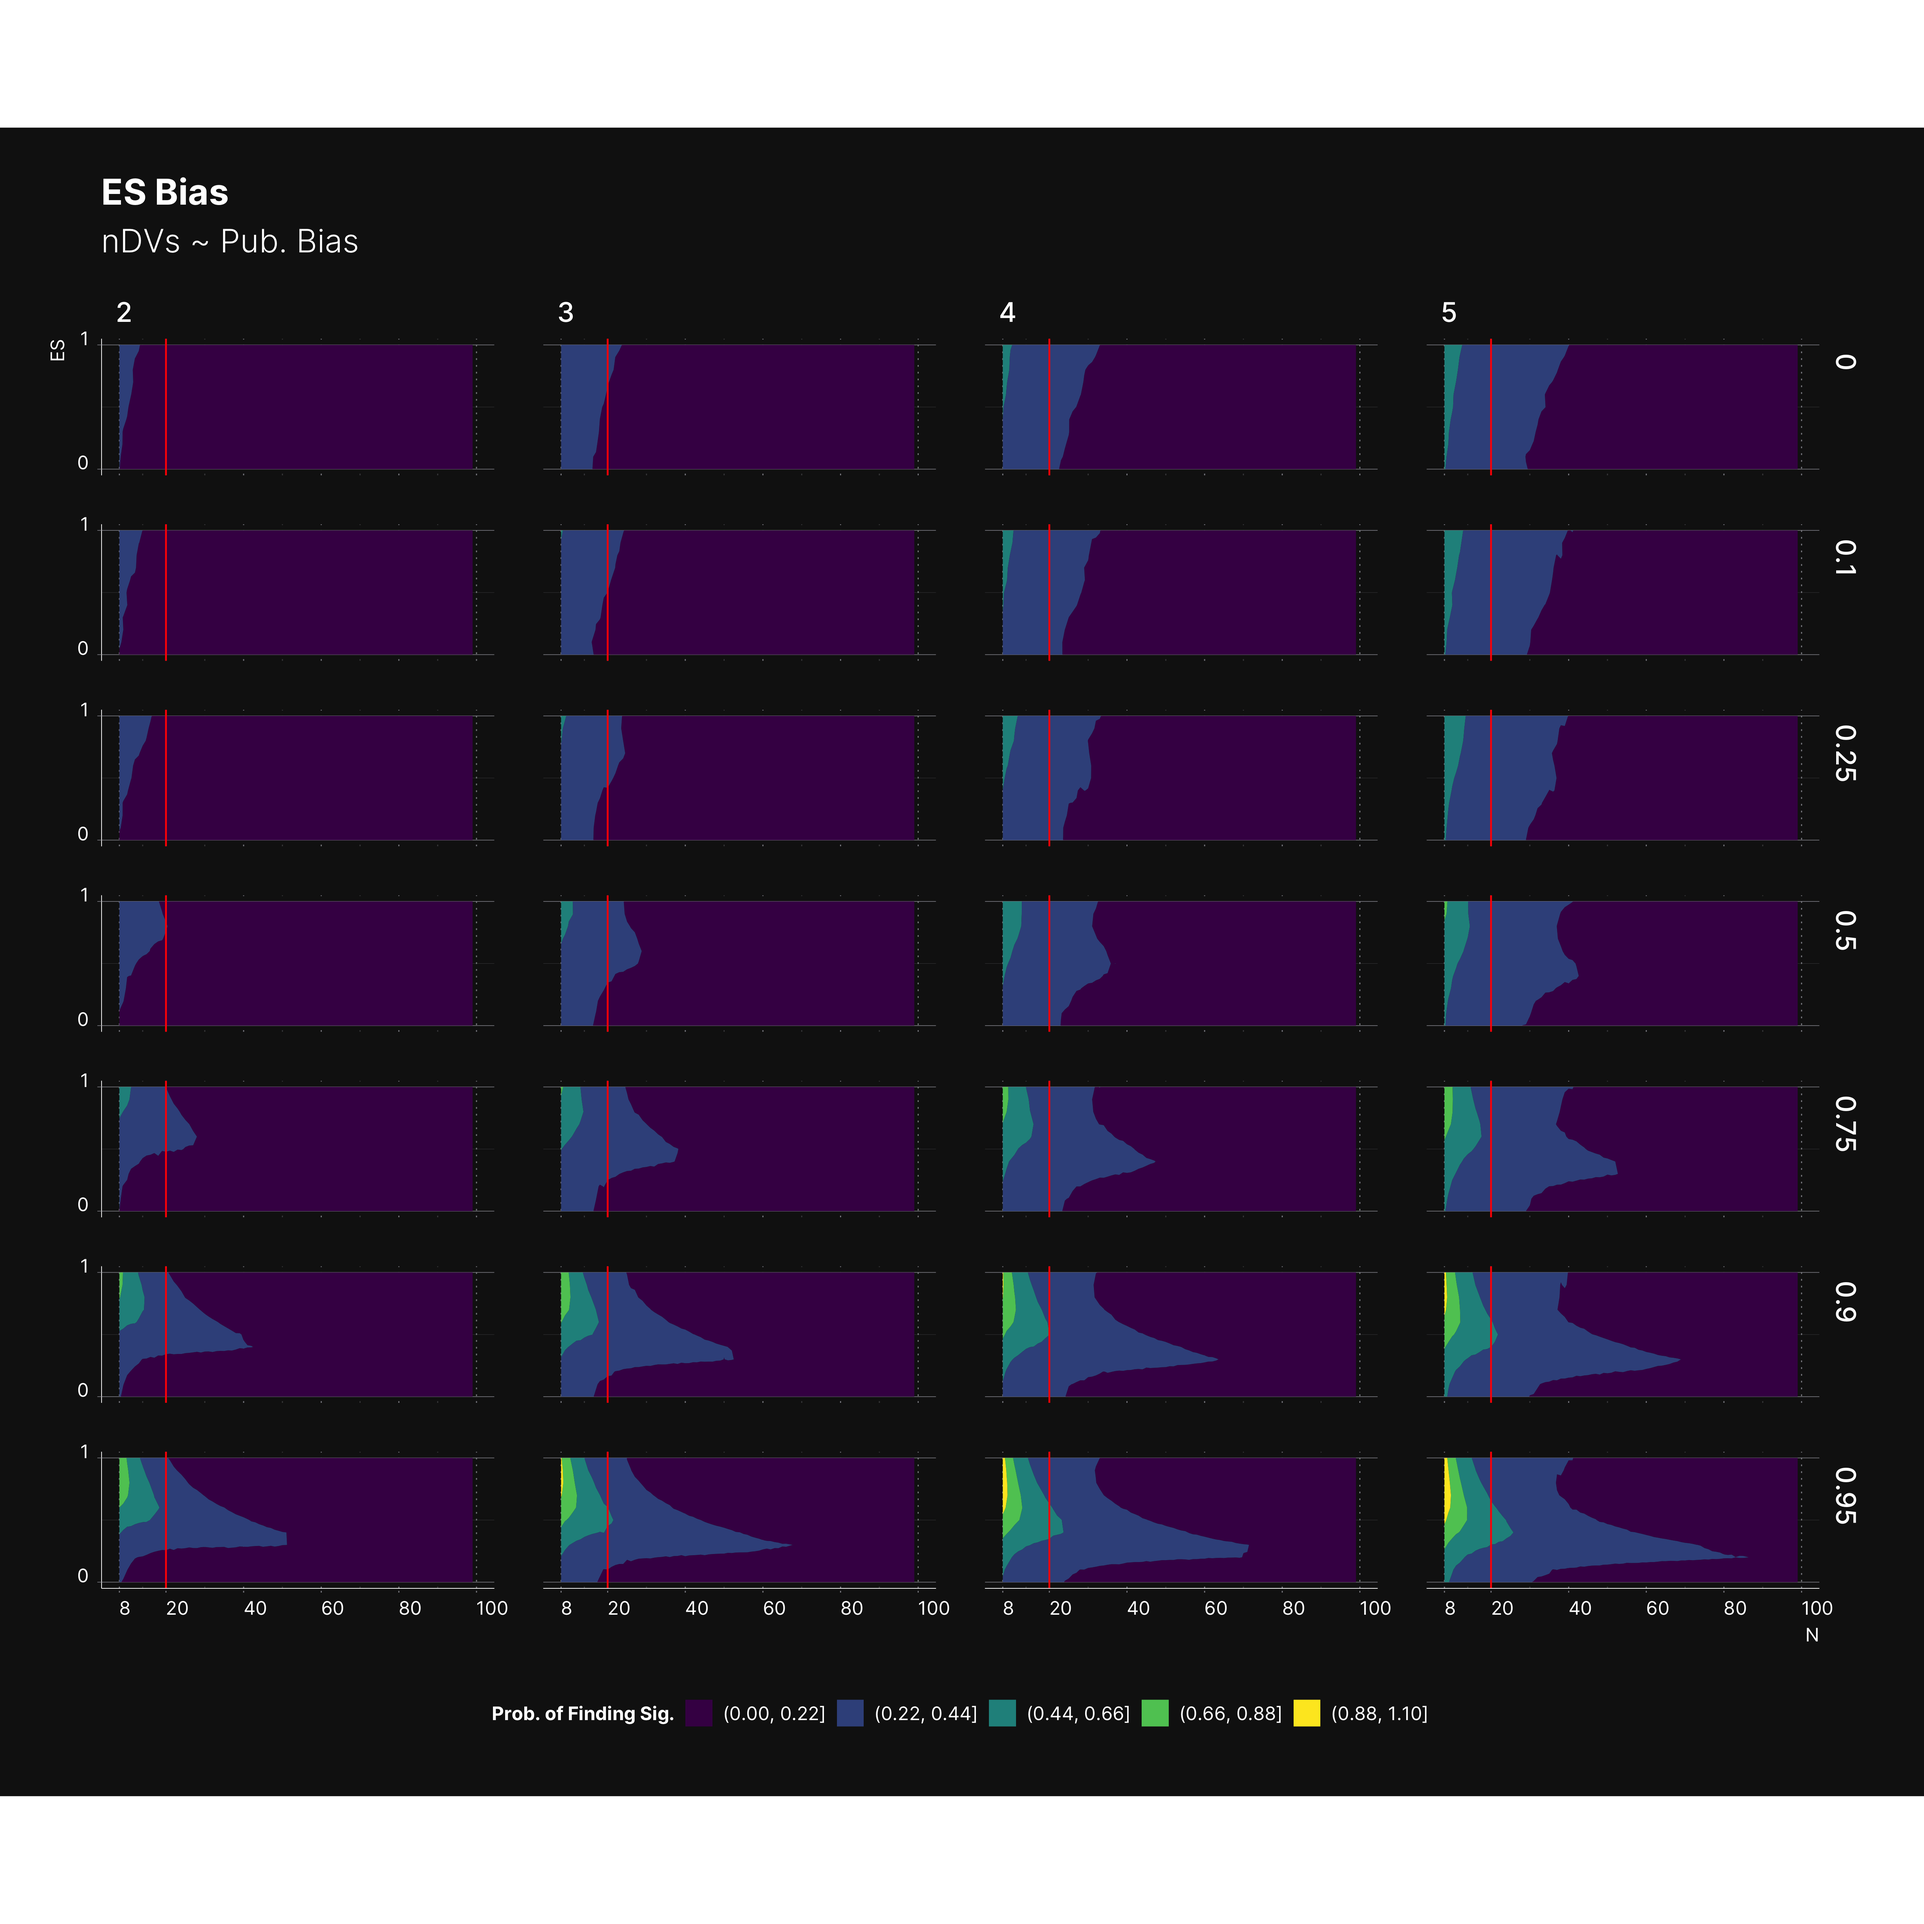
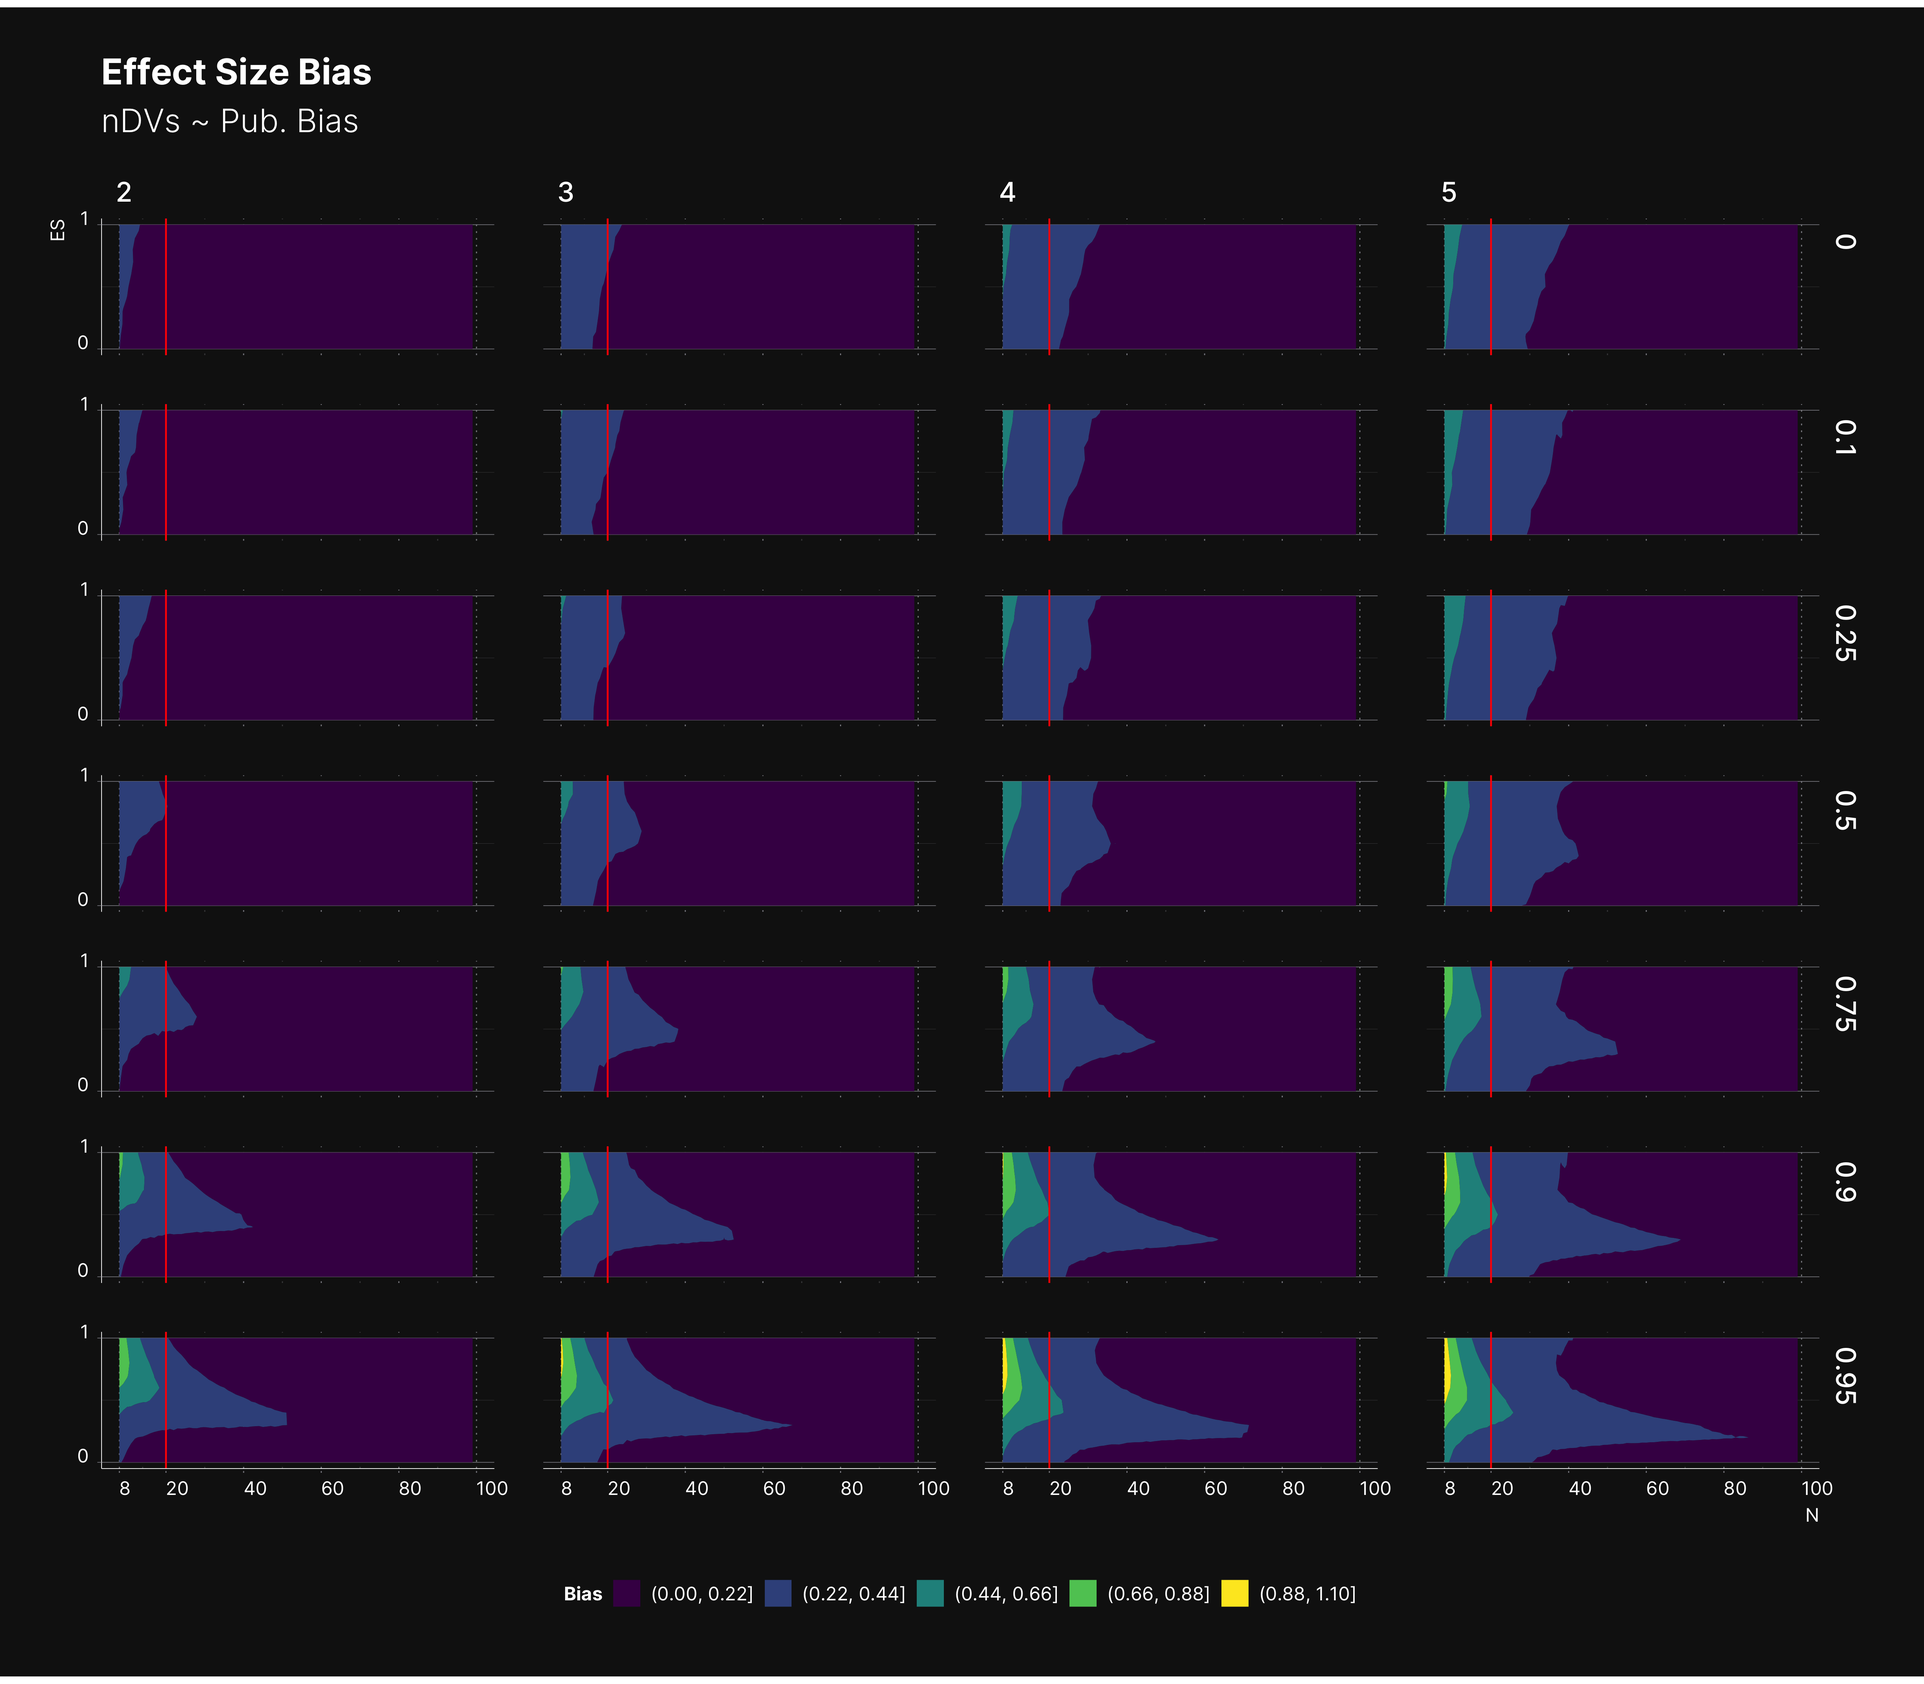
Updated some of the figures, and added some more text to some of the experiments

diff --git a/docs/studies/selection-variation.md b/docs/studies/selection-variation.md
@@ -1,12 +1,14 @@
 # Selection Variation
 
-In this study we investigate the effect of varying the [intial selection](/decision-strategies.md). As we discussed, by modifying each of the **selection → decision** routine, we can induce alternative judgments into the decision strategy. In another word, we will be able to study the effect of [Selective Reporting](/hacking-strategies/selective-reporting.md) on different stages of conducting a research. 
+In this study we investigate the effect of varying Researcher's [intial selection](/decision-strategies.md) [policy](/decision-strategies.md#policy-chain). As we discussed, by modifying each of the **selection → decision** routine, we can influence Researcher's judgments on his research. This is equivalent of simulating different paths that a researcher could take when it comes to reporting his final outcome, a.k.a, [Selective Reporting](/hacking-strategies/selective-reporting.md).
 
-Here, we are interested in finding out the influence of set of simple selection routines on the *Probability of Finding Significant, PFS*, and distribution of significant *p*-value.
+Here, we are interested in finding out the influence of set of simple selection routines on the *Probability of Finding Significant, PFS*, *Level of Bias*, and *Distribution of Significant p-value*.
 
-## Study Design
+## Study Design and Parameters Pool
 
-!!! datastrategy "Configuration: Data Strategy"
+We start by a simple [Linear Model](/data-strategies.md#linear-model) consisting of two groups, and variable number of dependant variables.
+
+??? datastrategy "Configuration: Data Strategy"
 	```json hl_lines="4 5 10"
     "experiment_parameters": {
         "n_reps": 1,
@@ -26,16 +28,14 @@ Here, we are interested in finding out the influence of set of simple selection 
     }
 	```
 
-## Parameters Pool
-
-In order to study the effect of selective reporting on a wide range of study design and parameters, we will simulate all combinations of following parameters.
+In order to study the effect of selective reporting on a wide range of study design and parameters, we will simulate all combinations of following parameters:
 
 - *μ* ∈ [0, 1]
-- *P<sub>b</sub>* ∈ [0, 0.95]
-- *m* ∈ {0, 0.1, 0.25, 0.5, 0.75, 0.9, 0.95}
+- *m* ∈ {2, 3, 4, 5}
 - *N* ∈ {5, 10, 20, 30, 50, 80}
+- *P<sub>b</sub>* ∈ {0, 0.1, 0.25, 0.5, 0.75, 0.9, 0.95}
 
-We implement the selective reporting by altering `initial_selection_policies`, where we alternate Researcher's prefered choice. Each item in the list below indicates Researcher's **first** and **prefered** choice.
+As discussed, we achieve the selective reporting by alternation of `initial_selection_policies`, i.e., Researcher's prefered choice. Each item in the list below indicates Researcher's **first** and **prefered** choice.
 
 - `["sig", "effect > 0", "first"]`
 - `["sig", "effect > 0", "random"]`
@@ -43,9 +43,9 @@ We implement the selective reporting by altering `initial_selection_policies`, w
 - `["sig", "effect > 0", "min(pvalue)"]`
 - `["sig", "effect > 0", "max(pvalue)"]`
 
-As we discussed, `initial_selection_policies` is a [Policy Chain Set](/decision-strategies.md#policy-chain-set), meaning that it can be followed by an alternative in case Researcher is unable to find an outcome with the given criteria. We follow each selection with two *Policy Chain*, `["effect > 0", "min(pvalue)"], ["effect < 0", "max(pvalue)"]`. With this, our Researcher priotrizes each role after failing to satisfy the previous role. Due to the fact that the first policy chain is the only policy chain emphesizing on significant, the aggregate outcome of the simulation can be used to measure the chance of finding significant results.
+As we discussed, `initial_selection_policies` is a [Policy Chain Set](/decision-strategies.md#policy-chain-set), meaning that it can be followed by alternatives in the case of Researcher not being able to find an outcome with the given criteria. We follow each selection with two *Policy Chain*, `["effect > 0", "min(pvalue)"], ["effect < 0", "max(pvalue)"]`. With this, our Researcher priotrizes each set after failing to satisfy the previous set. Due to the fact that the first policy chain is the only policy chain emphesizing on significant, the aggregate outcome of the simulation can be used to measure the chance of finding significant results.
 
-!!! decisionstrategy "Configuration: Initial Selection Policy"
+??? decisionstrategy "Configuration: Initial Selection Policy"
 	```json
 	{
         "decision_strategy": {
@@ -69,8 +69,110 @@ We can simply leave other selection and decision policies empty, as we do not pl
 
 ## Results
 
+We present our results within three main set of figures. 
+
 ## Landscape of *Probability of Finding Significant*
 
+First, we look at the probability of finding significant results within the predefined hypercube of parameters enlisted above. Figure 1 is splited into 4 different figures, each showing results for a simulation study with different number of dependent variables. 
+
+Overall, we see that most lines are overlapping each other. This means that our selections for selective reporting variation does not necessarily translate to a meaningful difference in the probability of finding significant results. However, the effect of different ɑ-level is visible and meaningful. Basically, lowering ɑ-level lowers the chance of finding significant results, as expected.
+
+Moveover, we can observe the effect of publication bias on our results. As one would expect, higher publication bias will lead to higher concentration of significant results in Journal. In SAM, higher publication bias encourages Jouranl to reject less non-significant results, therefore, Researcher will discard more non-significant results, see [Journal](/journal-configurations.md)
+
+
+=== "2"
+
+	<figure>
+	  <picture>
+	    <source 
+	        srcset="/studies/figures/selection-variation/PFS_2_Sel_Var_dark.png"
+	        media="(prefers-color-scheme: dark)">
+	    <img src="/studies/figures/selection-variation/PFS_2_Sel_Var_light.png" />
+	  </picture>
+	</figure>
+
+=== "3"
+
+	<figure>
+	  <picture>
+	    <source 
+	        srcset="/studies/figures/selection-variation/PFS_3_Sel_Var_dark.png"
+	        media="(prefers-color-scheme: dark)">
+	    <img src="/studies/figures/selection-variation/PFS_3_Sel_Var_light.png" />
+	  </picture>
+	</figure>
+
+=== "4"
+
+	<figure>
+	  <picture>
+	    <source 
+	        srcset="/studies/figures/selection-variation/PFS_4_Sel_Var_dark.png"
+	        media="(prefers-color-scheme: dark)">
+	    <img src="/studies/figures/selection-variation/PFS_4_Sel_Var_light.png" />
+	  </picture>
+	</figure>
+
+=== "5"
+
+	<figure>
+	  <picture>
+	    <source 
+	        srcset="/studies/figures/selection-variation/PFS_5_Sel_Var_dark.png"
+	        media="(prefers-color-scheme: dark)">
+	    <img src="/studies/figures/selection-variation/PFS_5_Sel_Var_light.png" />
+	  </picture>
+	</figure>
+
+## Level of ES Bias
+
+E
+
+=== "2"
+
+	<figure>
+	  <picture>
+	    <source 
+	        srcset="/studies/figures/selection-variation/ES_Bias_2_Sel_Var_dark.png"
+	        media="(prefers-color-scheme: dark)">
+	    <img src="/studies/figures/selection-variation/ES_Bias_2_Sel_Var_light.png" />
+	  </picture>
+	</figure>
+
+=== "3"
+
+	<figure>
+	  <picture>
+	    <source 
+	        srcset="/studies/figures/selection-variation/ES_Bias_3_Sel_Var_dark.png"
+	        media="(prefers-color-scheme: dark)">
+	    <img src="/studies/figures/selection-variation/ES_Bias_3_Sel_Var_light.png" />
+	  </picture>
+	</figure>
+
+=== "4"
+
+	<figure>
+	  <picture>
+	    <source 
+	        srcset="/studies/figures/selection-variation/ES_Bias_4_Sel_Var_dark.png"
+	        media="(prefers-color-scheme: dark)">
+	    <img src="/studies/figures/selection-variation/ES_Bias_4_Sel_Var_light.png" />
+	  </picture>
+	</figure>
+
+=== "5"
+
+	<figure>
+	  <picture>
+	    <source 
+	        srcset="/studies/figures/selection-variation/ES_Bias_5_Sel_Var_dark.png"
+	        media="(prefers-color-scheme: dark)">
+	    <img src="/studies/figures/selection-variation/ES_Bias_5_Sel_Var_light.png" />
+	  </picture>
+	</figure>
+
+## Landscape of *Significant P-value*
 
 === "2"
 
@@ -123,9 +225,9 @@ We can simply leave other selection and decision policies empty, as we do not pl
 	<figure>
 	  <picture>
 	    <source 
-	        srcset="/studies/figures/selection-variation/ES_Bias_2_Sel_Var_dark.png"
+	        srcset="/studies/figures/selection-variation/Type_I_Error_2_Sel_Var_dark.png"
 	        media="(prefers-color-scheme: dark)">
-	    <img src="/studies/figures/selection-variation/ES_Bias_2_Sel_Var_light.png" />
+	    <img src="/studies/figures/selection-variation/Type_I_Error_2_Sel_Var_light.png" />
 	  </picture>
 	</figure>
 
@@ -134,9 +236,9 @@ We can simply leave other selection and decision policies empty, as we do not pl
 	<figure>
 	  <picture>
 	    <source 
-	        srcset="/studies/figures/selection-variation/ES_Bias_3_Sel_Var_dark.png"
+	        srcset="/studies/figures/selection-variation/Type_I_Error_3_Sel_Var_dark.png"
 	        media="(prefers-color-scheme: dark)">
-	    <img src="/studies/figures/selection-variation/ES_Bias_3_Sel_Var_light.png" />
+	    <img src="/studies/figures/selection-variation/Type_I_Error_3_Sel_Var_light.png" />
 	  </picture>
 	</figure>
 
@@ -145,9 +247,9 @@ We can simply leave other selection and decision policies empty, as we do not pl
 	<figure>
 	  <picture>
 	    <source 
-	        srcset="/studies/figures/selection-variation/ES_Bias_4_Sel_Var_dark.png"
+	        srcset="/studies/figures/selection-variation/Type_I_Error_4_Sel_Var_dark.png"
 	        media="(prefers-color-scheme: dark)">
-	    <img src="/studies/figures/selection-variation/ES_Bias_4_Sel_Var_light.png" />
+	    <img src="/studies/figures/selection-variation/Type_I_Error_4_Sel_Var_light.png" />
 	  </picture>
 	</figure>
 
@@ -156,12 +258,10 @@ We can simply leave other selection and decision policies empty, as we do not pl
 	<figure>
 	  <picture>
 	    <source 
-	        srcset="/studies/figures/selection-variation/ES_Bias_5_Sel_Var_dark.png"
+	        srcset="/studies/figures/selection-variation/Type_I_Error_5_Sel_Var_dark.png"
 	        media="(prefers-color-scheme: dark)">
-	    <img src="/studies/figures/selection-variation/ES_Bias_5_Sel_Var_light.png" />
+	    <img src="/studies/figures/selection-variation/Type_I_Error_5_Sel_Var_light.png" />
 	  </picture>
 	</figure>
-
-## Landscape of *Significant P-value*
 
 ## Pub. Bias Effect

diff --git a/docs/studies/sample-size-variation.md b/docs/studies/sample-size-variation.md
@@ -7,7 +7,7 @@ In this study, we will investigate the effect of sample size, *N*, on the level 
 As with our [selective variation](/studies/selection-variation) study, we simulate a range of parameters; however, we use only one of the selection policies, as we have shown that there is no meaningful difference between them.
 
 - *μ* ∈ [0, 1]
-- *P<sub>b</sub>* ∈ [0, 0.95]
+- *P<sub>b</sub>* ∈ {0, 0.1, 0.25, 0.5, 0.75, 0.9, 0.95}
 - *m* ∈ {0, 0.1, 0.25, 0.5, 0.75, 0.9, 0.95}
 - *N* ∈ {5, 10, 20, 30, 50, 80}
 - *Initial<sub>sel</sub>*, `["sig", "effect > 0", "random"], ["effect > 0", "min(pvalue)"], ["effect < 0", "max(pvalue)"]`
@@ -45,7 +45,7 @@ As with our [selective variation](/studies/selection-variation) study, we simula
 	    <source 
 	        srcset="/studies/figures/sample-size-variation/PFS_5e-04_N_Range_dark.png"
 	        media="(prefers-color-scheme: dark)">
-	    <img src="/studies/figures/sample-size-PFS_5e-04_N_Range_light.png" />
+	    <img src="/studies/figures/sample-size-variation/PFS_5e-04_N_Range_light.png" />
 	  </picture>
 	</figure>
 
@@ -84,4 +84,38 @@ As with our [selective variation](/studies/selection-variation) study, we simula
 	  </picture>
 	</figure>
 
-### Pub. Bias Effect
+### Landscape of *Significant P-values*
+
+
+=== "0.05"
+
+	<figure>
+	  <picture>
+	    <source 
+	        srcset="/studies/figures/sample-size-variation/MSP_0.05_N_Range_dark.png"
+	        media="(prefers-color-scheme: dark)">
+	    <img src="/studies/figures/sample-size-variation/MSP_0.05_N_Range_light.png" />
+	  </picture>
+	</figure>
+
+=== "0.005"
+
+	<figure>
+	  <picture>
+	    <source 
+	        srcset="/studies/figures/sample-size-variation/MSP_0.005_N_Range_dark.png"
+	        media="(prefers-color-scheme: dark)">
+	    <img src="/studies/figures/sample-size-variation/MSP_0.005_N_Range_light.png" />
+	  </picture>
+	</figure>
+
+=== "0.0005"
+
+	<figure>
+	  <picture>
+	    <source 
+	        srcset="/studies/figures/sample-size-variation/MSP_5e-04_N_Range_dark.png"
+	        media="(prefers-color-scheme: dark)">
+	    <img src="/studies/figures/sample-size-variation/MSP_5e-04_N_Range_light.png" />
+	  </picture>
+	</figure>

diff --git a/docs/studies/studies.md b/docs/studies/studies.md
@@ -4,6 +4,6 @@ title: Introduction
 
 # Experimental Studies
 
-In this section, we present a few experimental studies each targeting different aspect of process of conducting a research. We start by study the effect of [Selective Reporting](/hacking-strategies/selective-reporting.md) on probability of finding significant results, followed by an experiment to showcase the effect of sample size variation. 
+In this section, we present a few experimental studies, each targeting different aspects of conducting a research. We start by studying effects of [Selective Reporting](/hacking-strategies/selective-reporting.md) on probability of finding significant results, followed by an experiment showcasing effects of sample size variation on known research quality and meta-analysis metrics.
 
 As we progress to make our design more complicated, we incorporate what we have observed from previous studies. 
